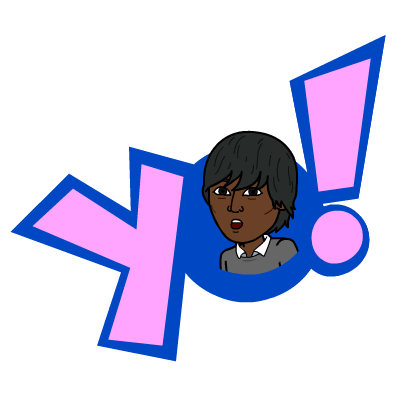
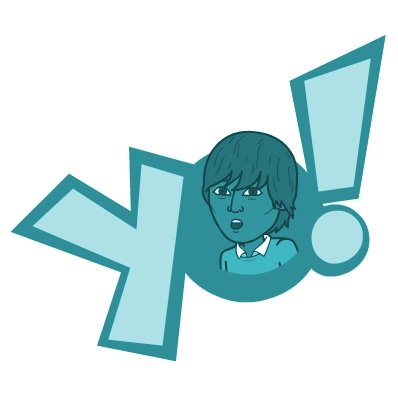
weekend

diff --git a/index.html b/index.html
@@ -85,7 +85,7 @@
         <div class="row">
           <div class="col-lg-12">
 
-            <img src="img/thatsparrow_bitmoji4.png" alt="A bitmoji of Jann" height="280" width="280" class="w3-round"><p>
+            <img src="img/thatsparrow_bitmoji2.png" alt="A bitmoji of Jann" height="280" width="280" class="w3-round"><p>
               <h1>How's it going? I'm <strong>Jann</strong> . . .<br><small>pronounced /jɑːən/</small></h1>
               <h3>I patch <code>#code</code>, draft press releases and listen to <a href="http://www.anjunadeep.com/">anjunadeep</a>—usually.
                 <br>I spend the rest of my time reclining on my favourite chair: scraping data from the web or writing case studies on SMEs.
@@ -227,10 +227,10 @@
                 <img src="img/pr/thatsparrow_worksamples.png" alt="Hela Clothing; Microsoft" style="width:100%;">
               </div>
               <div class="item">
-                <img src="img/pr/thatsparrow_laugfs.png" alt="Laugfs Group; Microsoft" style="width:100%;">
+                <img src="img/pr/thatsparrow_worksamples.png" alt="Laugfs Group; Microsoft" style="width:100%;">
               </div>
               <div class="item">
-                <img src="img/pr/thatsparrow_azure.png" alt="Azure Day 2017" style="width:100%;">
+                <img src="img/pr/thatsparrow_worksamples.png" alt="Azure Day 2017" style="width:100%;">
               </div>
               <div class="item">
                 <img src="img/pr/thatsparrow_dettol.png" alt="Dettol Clean Hands, Clean Nation" style="width:100%;">
@@ -301,7 +301,7 @@
 <!--++++++++++++++++++++++++++++++++++++++++++++++++++++++++++++++++++++++++-->
   <section id="footnote" class="footnote-section"><!--FOOTER SECTION BEGINS-->
     <div class="col-lg-12">
-      <h2 class="text-center">Shout out to the <strong><em>homies</em></strong> below</h2>
+      <h2 class="text-center"></h2>
       <p>
         <!--<a href="https://www.anybrowser.org/campaign"><img alt="about_any_browser_campaign" src="img/thatsparrow_anybrowser.gif" style="border: 0px solid"></a>-->
         <!--<a href="https://www.fsf.org/campaigns/freejs"><img alt="about_freejs_campaign" src="img/thatsparrow_freejs.png" style="border: 0px solid"></a>-->

diff --git a/css/scrolling-nav.css b/css/scrolling-nav.css
@@ -44,27 +44,27 @@ html {
     padding-top: 50px;
     padding-bottom: 50px;
     text-align: center;
-    background: #F5F5F5;
+    background: #F0F8FF;
 }
 .publicist-section {
     height: auto;
     padding-top: 50px;
     padding-bottom: 50px;
     text-align: center;
-    background: #99FF99;
+    background: #FFFFFF;
 }
 .writer-section {
     height: auto;
     padding-top: 50px;
     padding-bottom: 50px;
     text-align: left;
-    background: #F5F5F5;
+    background: #F0F8FF;
 }
 .footnote-section {
     height: auto;
     padding-top: 50px;
     text-align: center;
-    background: #FFFFFF;
+    background: #1E90FF;
 }
 h1, h2, h3, h4, h5, h6 {
     font-family: 'Quicksand', sans-serif;
@@ -75,4 +75,22 @@ p, div {
 .carousel-control.left, .carousel-control.right {
    background-image:none !important;
    filter:none !important;
+}
+.carousel-indicators li {
+    display: inline-block;
+    width: 48px;
+    height: 48px;
+    margin: 10px;
+    text-indent: 0;
+    cursor: pointer;
+    border: none;
+    border-radius: 50%;
+    background-color: #ffffff;
+    box-shadow: inset 1px 1px 1px 1px rgba(0,0,0,0.5);
+}
+.carousel-indicators .active {
+    width: 48px;
+    height: 48px;
+    margin: 10px;
+    background-color: #ffff99;
 }

diff --git a/README.md b/README.md
@@ -10,3 +10,9 @@ Copyright and License:
 
 Errors can be found here:
 - [Results](https://validator.w3.org/nu/?doc=https%3A%2F%2Fthatsparrow.github.io%2F)
+
+To Do List:
+- About: Social Icons instead of buttons
+- Dev: Add portfolio on github
+- Publicist: Change background/ work samples images to 1000px by 500px
+- Writer: Add Other Writing
